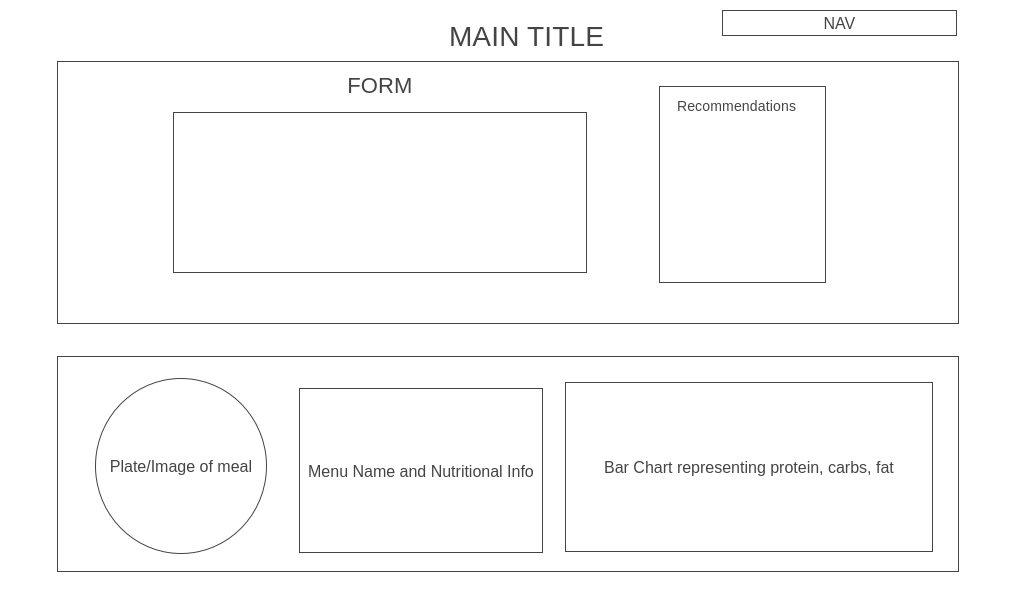
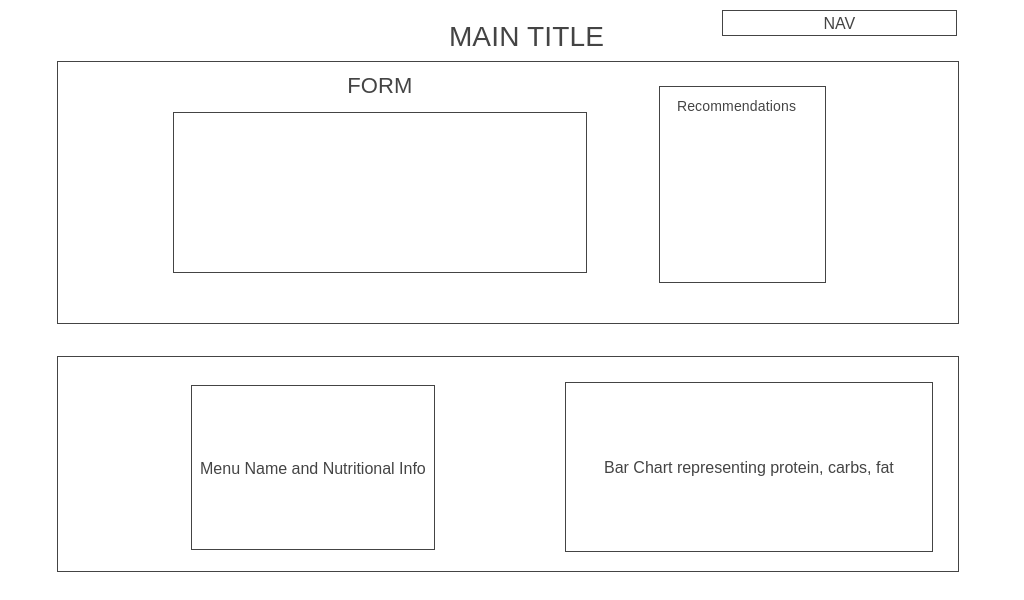
updated ReadME

diff --git a/README.md b/README.md
@@ -1,45 +1,41 @@
 ## Background
 
-Have you ever wanted to grab a quick meal from a fast food restaurant or chain, but wanted to be smart about it? Calorie Calculator will help achieve this for you! Simply submit your total calorie intake and any additional filters (protein, carbs, fat) and all options available will appear before your eyes. Feel free to change your initial numbers and your options will magically adjust to your liking. You will also be able to see which meal option has the highest protein, fat, or carbs.
+Know how much you are eating at Subway if you are calorie conscious or macro conscious. Choose from custom options to menu items and see how much protein, carbs, and fat you are consuming. Feel free to update/edit your options and your macros and calorie count will also update as you go. 
 
 
 ## Functionality & MVPs
 
-In Calorie Calculator, users will be able to:
-- Choose their meals from McDonalds, Chipotle, or Tacobell, displaying full nutrional value
-- Insert their customized calorie intake with protein, carbs, and fat options
-- Sort meal items by highest calories, protein, carbs, or fat
-- Adjust meal options
-
-In addition, this project will include
-- An About for diet recommendations by the United States Dietary Guidelines
-- A production README
+Users will be able to:
+- Choose menu items and customize their meal
+- Adjust, edit, and clear meal options
+- View what they have currently selected, the current calorie total compared to the amount of protein, carbs, and fat, as they choose their options
+- Compare what they have currently selected to the U.S Dietary Guidelines for Americans
 
 
 ## Wire Frames
-![](assets/Homepage.png)
-- Nav links include links to this project's Github repo and my LinkedIn.
-- Form will include brand icons and text boxes for calories, protein, carb, and fat.
-- On bottom left, meal items will appear on a plate once options are generated
-- On bottom right, additional nutritional data will be presented in a bar chart
+![](assets/images/Homepage.png)
+- Footer will include links to this project's Github repo and my LinkedIn.
+- Left will contain all customizable items 
+- Right will contain bar chart showing total calories and macros as each option is selected.
 
 
 ## Technologies, Libraries, APIs
 
 This project will be implemented with the following technologies:
-- Spooncular API for the dataset
-- Chart.js or D3.js to animate the bar chart
+- Nutritional information from Subway (public)
+- Chart.js to animate the bar chart
+- A splash of Vanilla DOM
 - Webpack and Babel to bundle and transpile the source JavaScript code
 - npm to manage project dependences
 
 
 ## Imprementation Timeline
 
-- Friday Afternoon & Weekend: Set up project, including getting webpack up and running. Learn how to use API. Set up backend if needed to hide API keys. Start building MenuItem class and methods. Start implementing logic needed to calculate calories based on prefernces chosen.
+- Friday Afternoon & Weekend: Set up project, including getting webpack up and running. Convert Subway PDF nutrional information to accessable data. Set up backend if needed. Make sure data converted is fully operattional. Start implementing logic needed to calculate calories based on preferences chosen.
 
-- Monday: Build out basic HTML structure, create form. Start implementing bar chart with chart.js or D3.js.
+- Monday: Build out basic HTML structure. Learn more about Chart.js. Start implementing bar chart with Chart.js. Start implementing methods to update the chart as options are entered.
 
-- Tuesday: Hopefully, have all links connected and make sure everything is being rendered properly before moving on. Start focus on styling with CSS.
+- Tuesday: Make sure everything is being rendered properly before moving on. Focus on styling with CSS. Switch back and forth between javascript and CSS.
 
 - Wednesday: Finish styling page. Add bonus features if there is time.
 
@@ -48,9 +44,9 @@ This project will be implemented with the following technologies:
 
 ## Bonus Features
 
-There are so many ways in which this calculator can be even more helpful and customizable. Some updates can be:
-- Add string query so user can search for a item they like and meal with be focused on surrounding that item
-- Chart comparason between current meal and US recommended quidelines
+There are so many ways in which this calculator can be more helpful and customizable. Some updates can be:
+- Splash page: implement form for user before displaying everything to check what they would like their maximum calories, carb, protein, and fat intake before to customize the bar chart before it has been rendered.
+- Chart comparason between current meal and US recommended guidelines
 
 
 
